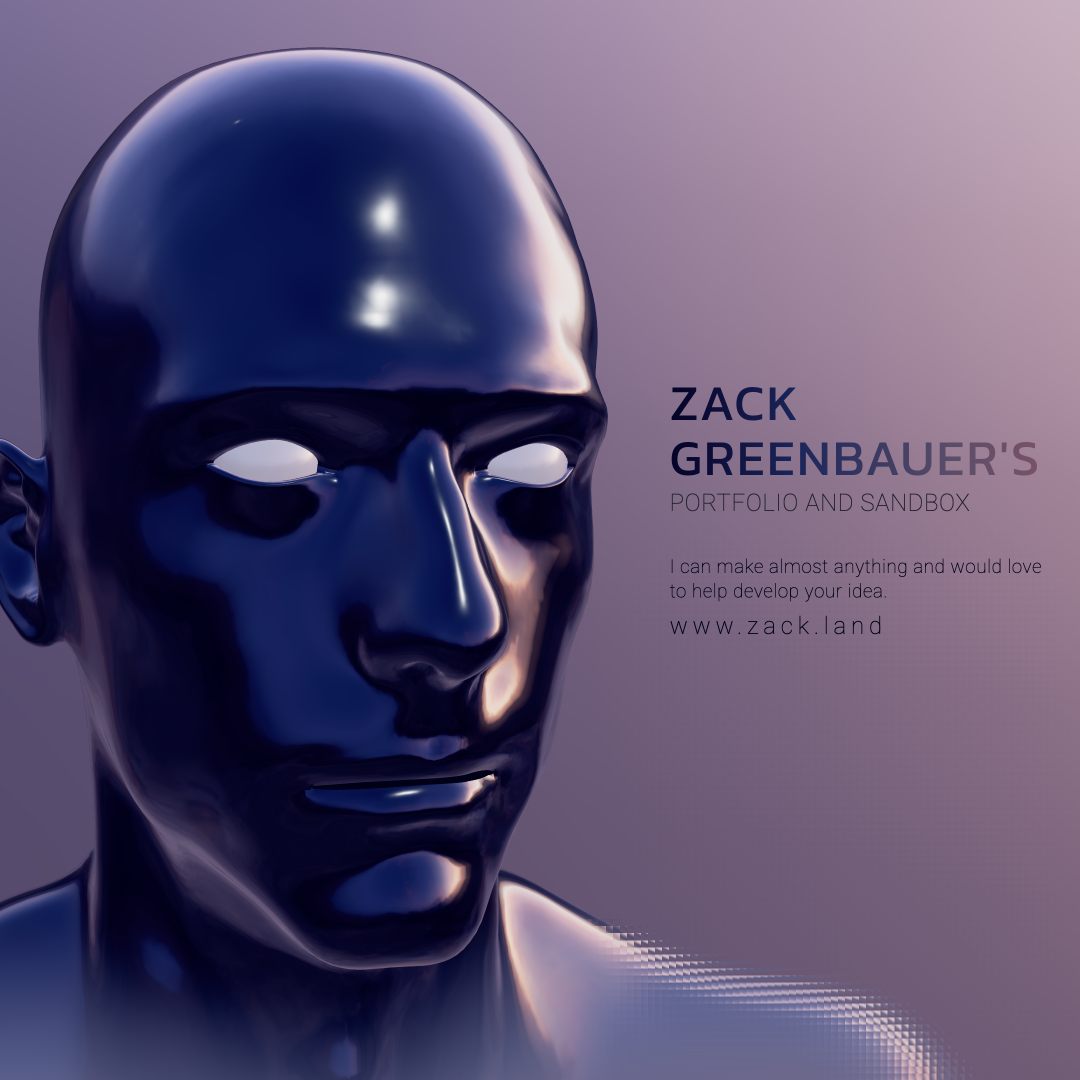
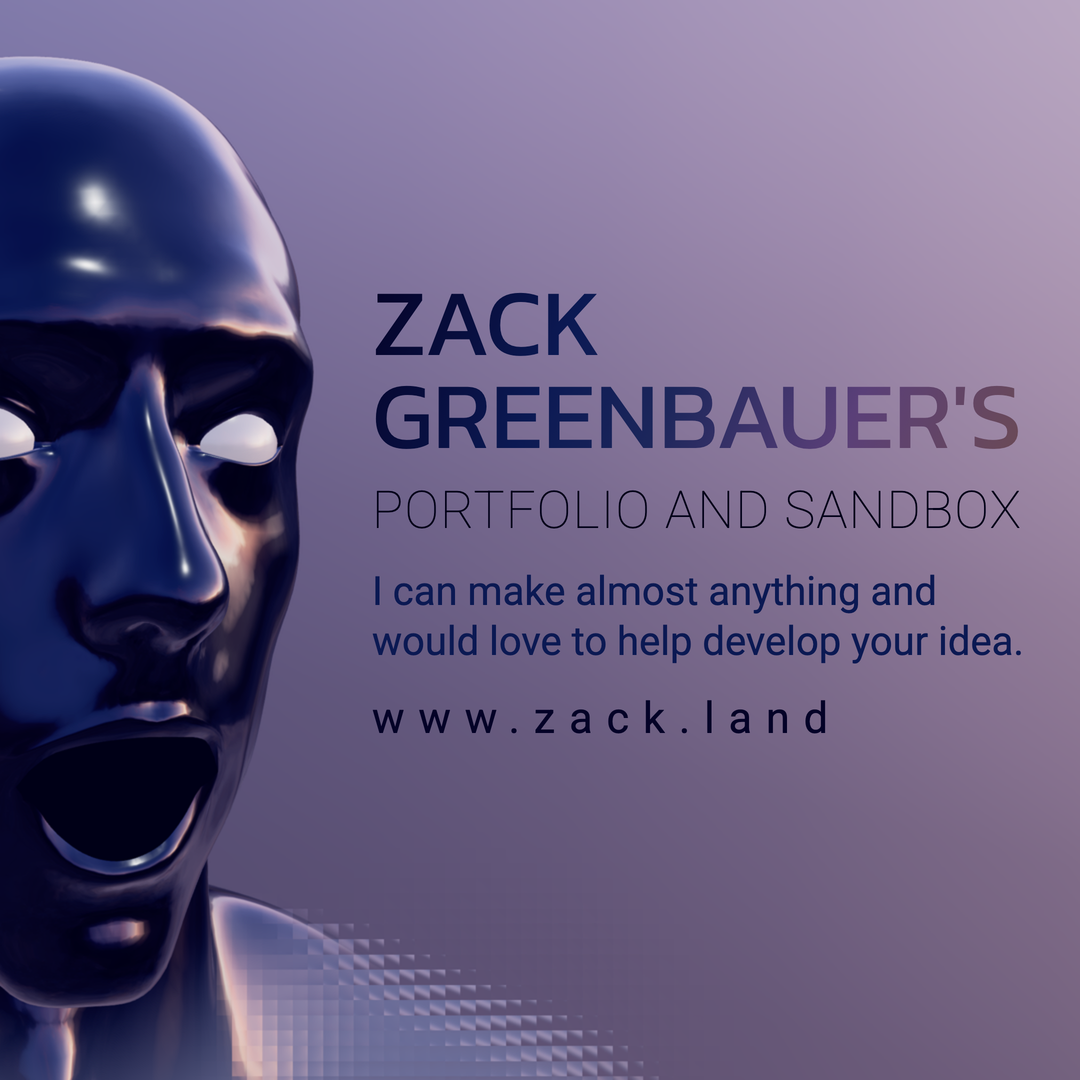
feat(brand): share images readable at preview size (#151)
* feat(brand): share images readable at preview size

Link previews show og-image.png about 400px wide, where its tagline was
about 6px tall. The link card and square post now set the whole tagline
as the headline (Roboto regular), the name small above it and the domain
widely spaced below. The head and glass are the original renders; only
the text was painted out and reset.

Not test-worthy: image assets and docs only.

* fix(brand): share image names keep contrast to the last letter

The name gradient ended in rose, which measured 1.8:1 (link card) and
1.3:1 (square) against the sky behind its last letters. It now ends in
purple (3.5:1 and 3.6:1). The link card's name is a little larger and
the domain one weight heavier, so both hold up at preview size.

* feat(brand): share images lead with the name and Portfolio and Sandbox

"Zack Greenbauer's" over the tagline read as one broken sentence. The
name is now the headline, stacked, with "Portfolio and Sandbox" under it
as on the home page; the tagline is smaller. The name and subtitle shade
through more of the dawn palette, each stop held to 3:1 on the sky.

* fix(brand): square's smaller lines hold 3:1 where its sky darkens

The subtitle, tagline and domain measured 2.2 to 2.9:1 at their left
ends on the square; in navy to blue they measure 3.2:1 or more.

* feat(brand): subtitle set as the site's; the square shows half the head

"Portfolio and Sandbox" is now Roboto Thin, uppercase and slightly
[…]

diff --git a/public/brand/README.md b/public/brand/README.md
@@ -26,8 +26,23 @@ The dawn palette (`theme/head.json`):
   sky, light tones (light to rose) on a dark one. No shadows.
 - **Domain is always written `www.zack.land`**, lowercase and widely spaced, as
   the site sets it.
-- **The head** faces right of the camera with a neutral face, and a strip of the
-  site's glass lies over the shoulders only, never the face.
+- **The head** faces right of the camera, and a strip of the site's glass lies
+  over the shoulders only, never the face. On the social images (link preview,
+  square, LinkedIn, X) it wears the greeting's surprise: the gasp, at full
+  strength (`components/Background/idleGreeting.ts`); the icons keep a neutral
+  face.
+- **Social image text** is read at about a third of its size, so it is set
+  large: the name as the headline ("Zack" over "Greenbauer's" on the link
+  preview and square, one line on the banners); "Portfolio and Sandbox" under
+  it; the tagline smaller; then the domain. Over a light sky the name shades
+  corner to corner from navy through indigo, blue and a violet to a darkened
+  rose; over LinkedIn's dark one, from light to peach. Each stop is darkened (or
+  lightened) to hold 3:1 on the sky. The subtitle is set as the site's (Roboto
+  Thin, uppercase, slightly spaced) in one theme colour, the lightest (or, on a
+  dark sky, the theme's light) that reaches 4.5:1 on the sky, as the home page
+  picks it. The tagline and domain are in Roboto regular, as light is too thin
+  at that size. The square shows only the head's right half, to give the text
+  room.
 
 ## Assets
 
@@ -45,7 +60,10 @@ The dawn palette (`theme/head.json`):
 > eye, closer than the app icons, so the face still reads at tab size.
 
 Each social image has its own part of the dawn sky: lilac to blush (link
-preview), a pink to purple sweep (LinkedIn), warm cream (X) and mauve (square).
+preview), a pink to purple sweep (LinkedIn), warm cream (X) and lavender
+(square). The sky turns used (`components/Background/skyViews.ts`; x tips, y turns):
+link preview `{ x: -0.8, y: 2.36 }` (the first light station), LinkedIn
+`{ x: 0.4, y: -2.84 }`, X `{ x: 0, y: 1.84 }`, square `{ x: 0.2, y: 0.8 }`.
 
 ## Regenerating
 
@@ -55,7 +73,18 @@ it turns right without squinting or raising its brows), the sky held at a fixed
 turn per image (`scene.backgroundRotation` and `scene.environmentRotation`, as
 `components/Background/Sky.tsx` sets them), the title, subtitle, tagline and
 domain placed over it, and a glass card (any `section`) laid over the shoulders.
-The render scripts are not kept in the repository.
+
+The social images were last rendered from `master` in a separate checkout with
+three local changes that were never committed: the 3D name left out of
+`components/Background/index.tsx`, the sky held at a turn (`stationFor` in
+`skyViews.ts` returning that turn with no reach), and the face held at given
+strengths (the morph influences in `MyHead.tsx`, neck shapes kept). Chromium ran
+headless with the Mac's GPU (`--headless=new --use-angle=metal`). Software GL
+(swiftshader) draws the head blocky at a quarter of the pixels, so it is not
+fit for these. The frosted glass fades out about 80 to 110 CSS pixels past its
+card's edge, so the card sits that far below where the glass should start. Each
+render was made larger than the image and cropped so the head sits where the old
+image had it. The render scripts are not kept in the repository.
 
 ## Link previews (wired in `app/layout.tsx`)
 
